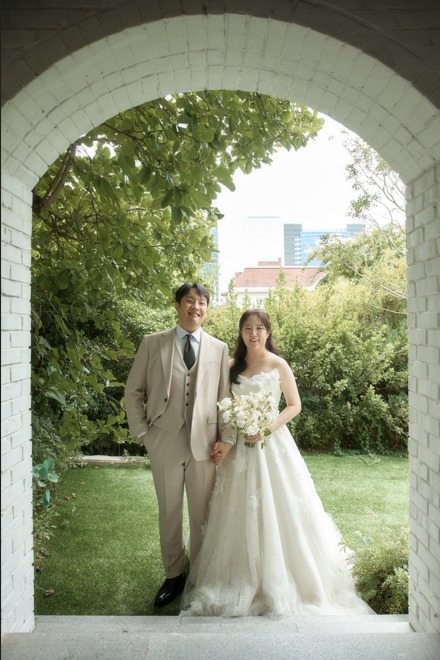
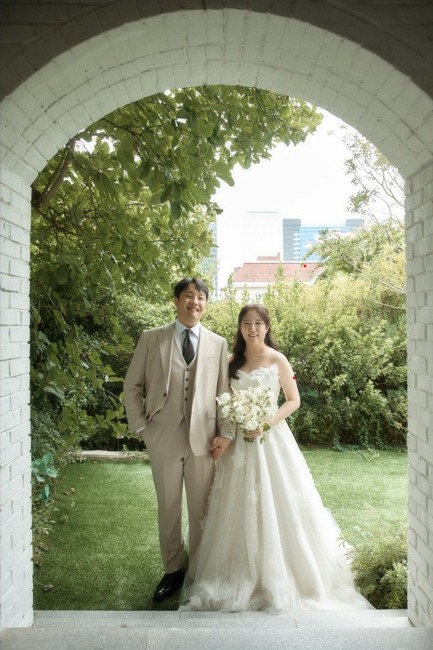
카카오톡 링크 미리보기 이미지를 사진과 문구가 세로로 이어진 카드로 바꿉니다.

diff --git a/index.html b/index.html
@@ -8,9 +8,9 @@
   <meta property="og:type" content="website">
   <meta property="og:title" content="백경동 ♥ 강소영 결혼합니다.">
   <meta property="og:description" content="2027년 2월 20일 토요일 오후 12시 20분, 왕십리 디노체컨벤션웨딩홀">
-  <meta property="og:image" content="https://bkdong93.github.io/kdbaik_mobile_wed/image/og-share.jpg">
-  <meta property="og:image:width" content="800">
-  <meta property="og:image:height" content="400">
+  <meta property="og:image" content="https://bkdong93.github.io/kdbaik_mobile_wed/image/og-card.jpg">
+  <meta property="og:image:width" content="900">
+  <meta property="og:image:height" content="1627">
   <link rel="preconnect" href="https://fonts.googleapis.com">
   <link rel="preconnect" href="https://fonts.gstatic.com" crossorigin>
   <link href="https://fonts.googleapis.com/css2?family=Great+Vibes&family=Nanum+Myeongjo:wght@400;700&display=swap" rel="stylesheet">
@@ -1359,7 +1359,7 @@
       const shareData = {
         title: "백경동 ♥ 강소영 결혼합니다.",
         text: "2027년 2월 20일 토요일 오후 12시 20분\n왕십리 디노체컨벤션웨딩홀",
-        url: PAGE + "?v=3"
+        url: PAGE + "?v=4"
       };
       if (navigator.share) {
         try {
